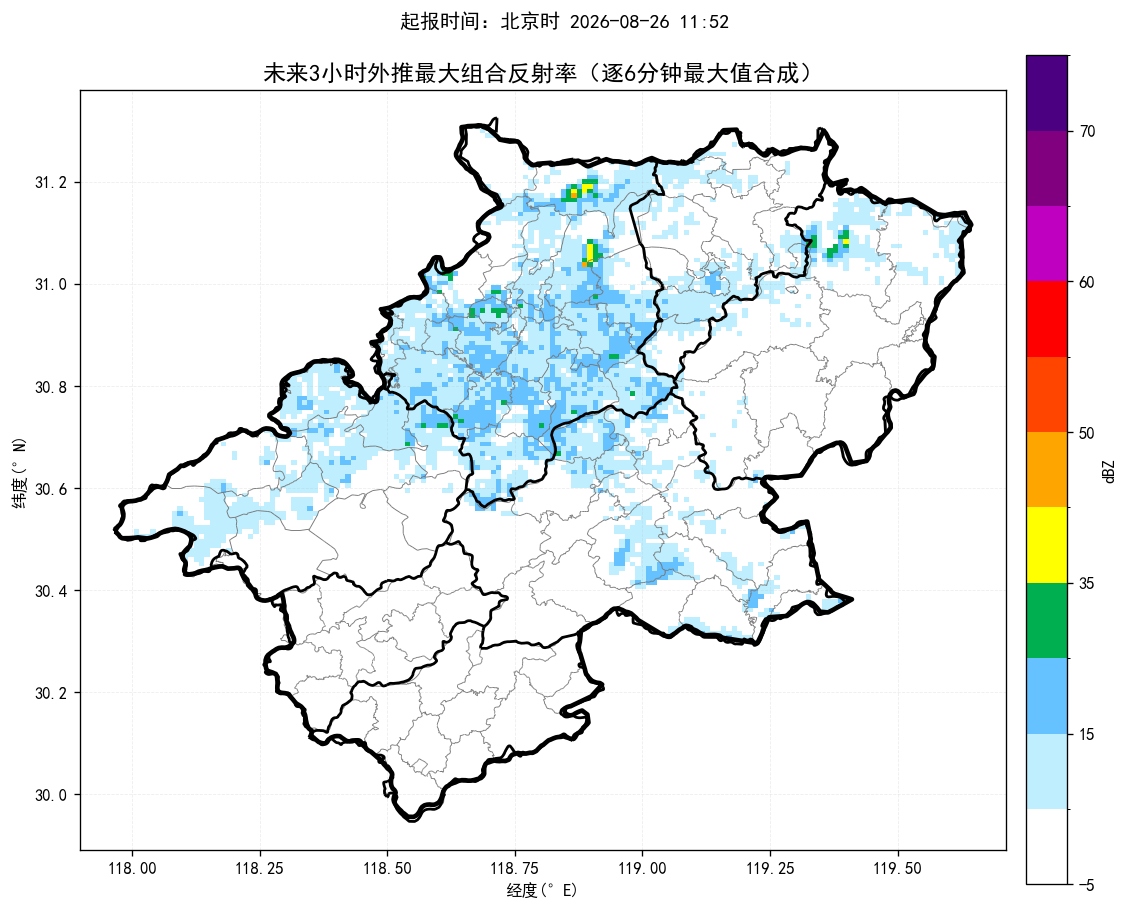
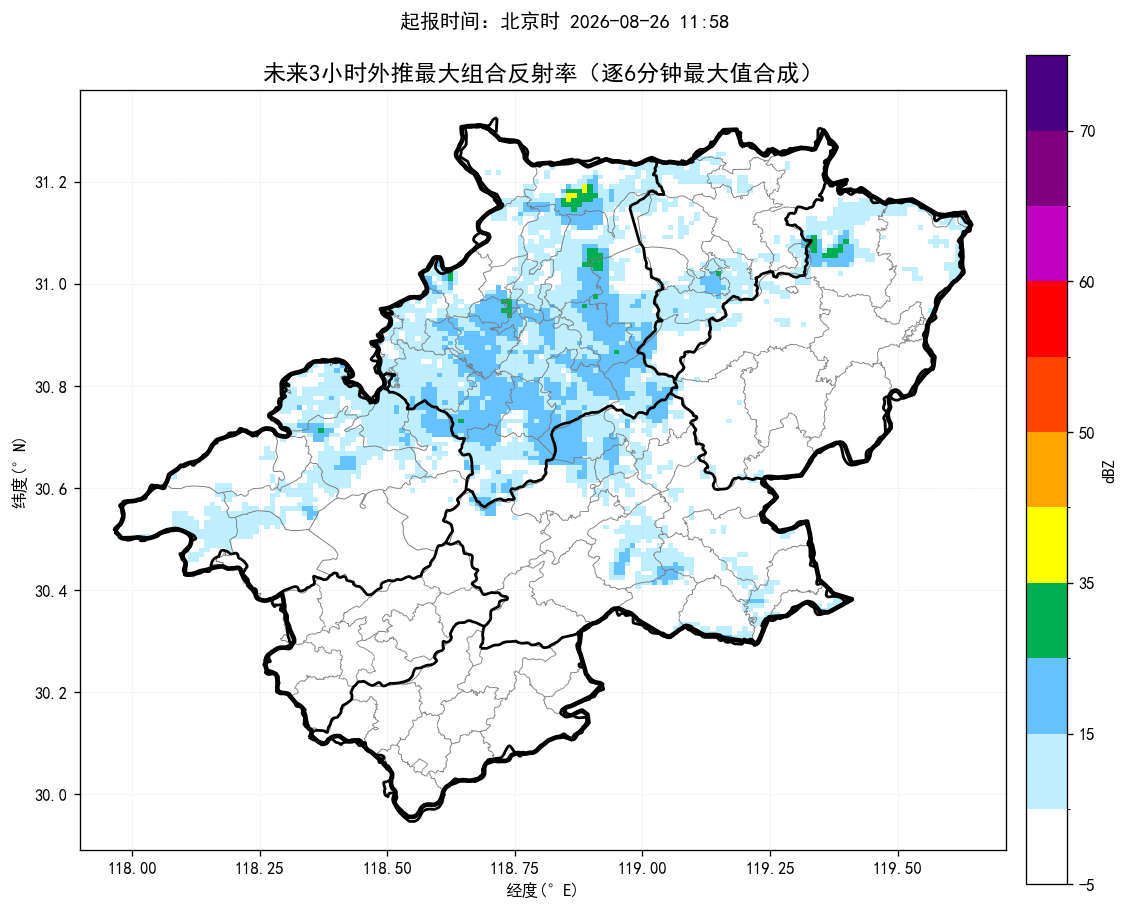
update nowcast products

Changed region(s): [[0.1551, 0.1538, 0.8688, 0.7077], [0.7137, 0.6462, 0.7447, 0.6769]]

diff --git a/index.html b/index.html
@@ -14,14 +14,14 @@ img.product{display:block;width:100%;height:auto;margin:10px auto 26px;border:1p
 .footer{font-size:13px;color:#777;text-align:center;margin-top:30px}
 @media(max-width:700px){.sheet{margin:0;padding:18px 15px}.alert-title{font-size:22px}.county-line{font-size:17px}.prob{font-size:18px}}
 </style></head><body><main class="sheet">
-<div class="time">起报时间：北京时 2026-08-26 11:52</div>
-<div class="alert-title">未来一小时降水量超过 20 毫米的乡镇：</div><div class="county-line">宣州区：狸桥镇、沈村镇</div>
+<div class="time">起报时间：北京时 2026-08-26 11:58</div>
+<div class="alert-title">未来一小时降水量超过 20 毫米的乡镇：</div><div class="county-line">无</div>
 <div class="alert-title">未来三小时降水量超过 50 毫米的乡镇：</div><div class="county-line">无</div>
 <div class="alert-title">未来三小时雷暴大风（组合反射率 > 55 dBZ）的乡镇：</div><div class="county-line">无</div>
-<div class="prob">最大降水量概率预估：宣城市范围内未来三小时累计降水达到50毫米概率约58%，达到80毫米概率约8%，达到100毫米概率约1%。</div>
-<div class="section-title">未来降水预报图：</div><img class="product auto-refresh-product" data-src="短临降水预报.png" src="短临降水预报.png?v=20260826115820" alt="未来降水预报图">
-<div class="section-title">未来三小时组合反射率图：</div><img class="product auto-refresh-product" data-src="未来3小时组合反射率.png" src="未来3小时组合反射率.png?v=20260826115820" alt="未来三小时组合反射率图">
-<div class="section-title">未来三小时雷暴大风图：</div><img class="product auto-refresh-product" data-src="未来3小时雷暴大风.png" src="未来3小时雷暴大风.png?v=20260826115820" alt="未来三小时雷暴大风图">
+<div class="prob">最大降水量概率预估：宣城市范围内未来三小时降水偏小，最大预报约5.1毫米，暂不进行50/80/100毫米概率预估。</div>
+<div class="section-title">未来降水预报图：</div><img class="product auto-refresh-product" data-src="短临降水预报.png" src="短临降水预报.png?v=20260826120400" alt="未来降水预报图">
+<div class="section-title">未来三小时组合反射率图：</div><img class="product auto-refresh-product" data-src="未来3小时组合反射率.png" src="未来3小时组合反射率.png?v=20260826120400" alt="未来三小时组合反射率图">
+<div class="section-title">未来三小时雷暴大风图：</div><img class="product auto-refresh-product" data-src="未来3小时雷暴大风.png" src="未来3小时雷暴大风.png?v=20260826120400" alt="未来三小时雷暴大风图">
 <div class="footer">三张产品图每 60 秒自动刷新一次；每次请求自动附加新的URL参数以绕过缓存。</div>
 <script>
 (function() {
